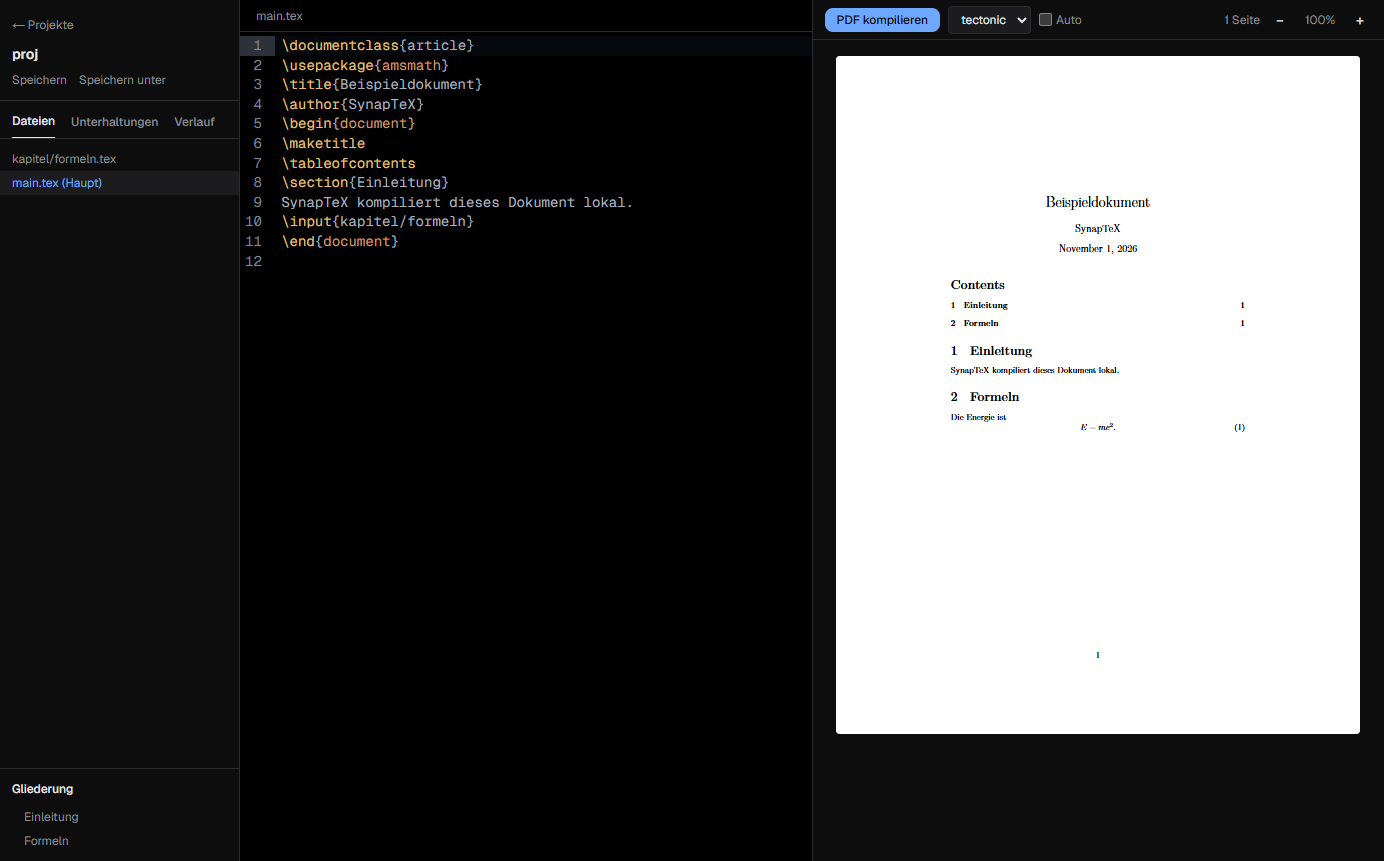
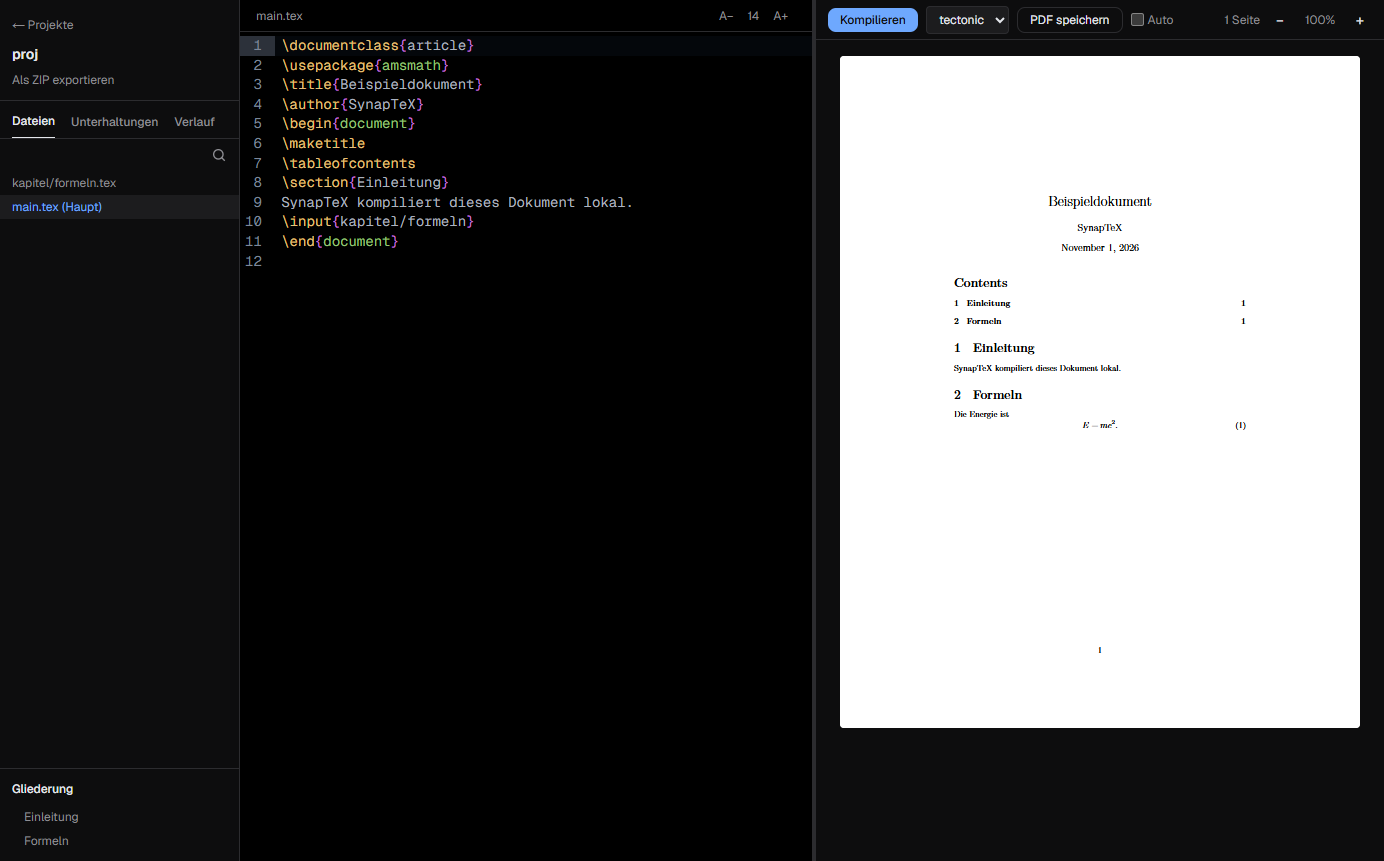
Add ZIP export, connection status and refresh the README screenshot
Also keep unreadable files from blocking checkpoints.

diff --git a/src/components/layout/ProjectSidebar.tsx b/src/components/layout/ProjectSidebar.tsx
@@ -3,6 +3,7 @@ import { useState, type ReactNode } from "react";
 import { ProjectSearch } from "@/components/layout/ProjectSearch";
 import { FileList } from "@/components/layout/FileList";
 import { HistoryPanel } from "@/components/layout/HistoryPanel";
+import { getDesktopApi } from "@/lib/desktop";
 import type { OutlineItem } from "@/types/desktop";
 
 interface ProjectSidebarProps {
@@ -52,6 +53,15 @@ export function ProjectSidebar({
           {name}
         </p>
         {/* Saved projects save themselves; only a new document needs a place first. */}
+        {!canSave && (
+          <button
+            type="button"
+            onClick={() => getDesktopApi()?.exportZip()}
+            className="mt-2 block text-xs text-muted hover:text-accent"
+          >
+            {t("exportZip")}
+          </button>
+        )}
         {canSave && (
           <button type="button" onClick={onSaveAs} className="mt-2 text-xs text-accent hover:underline">
             {t("chooseLocation")}

diff --git a/src/components/layout/ConnectionsPanel.tsx b/src/components/layout/ConnectionsPanel.tsx
@@ -34,6 +34,13 @@ export function ConnectionsPanel() {
 
   if (!state) return null;
   const api = getDesktopApi();
+  const lastAccess = state.log[0];
+  const statusText = !state.connected
+    ? t("mcpOff")
+    : lastAccess
+      ? t("mcpActive", { time: timeFormat.format(lastAccess.at) })
+      : t("mcpWaiting");
+  const statusColor = !state.connected ? "bg-muted" : lastAccess ? "bg-green-500" : "bg-amber-400";
 
   return (
     <div className="max-w-2xl p-4 text-xs">
@@ -45,6 +52,10 @@ export function ConnectionsPanel() {
       >
         {t(state.connected ? "mcpDisconnect" : "mcpConnect")}
       </button>
+      <p className="mt-3 flex items-center gap-2">
+        <span aria-hidden className={`size-2 rounded-full ${statusColor}`} />
+        {statusText}
+      </p>
       {state.connected && <p className="mt-2 text-muted">{t("mcpRestart")}</p>}
       {failed && <p role="alert" className="mt-2 text-red-400">{t("mcpFailed")}</p>}
 

diff --git a/src/lib/messages/de.ts b/src/lib/messages/de.ts
@@ -135,4 +135,8 @@ export const de: Record<string, string> = {
   previewSize: "Vorschaugröße",
   listView: "Liste",
   gridView: "Raster",
+  exportZip: "Als ZIP exportieren",
+  mcpOff: "Nicht verbunden",
+  mcpWaiting: "Eingerichtet, Claude hat noch nicht zugegriffen",
+  mcpActive: "Verbunden, letzter Zugriff: {time}",
 };

diff --git a/src/lib/messages/es.ts b/src/lib/messages/es.ts
@@ -135,4 +135,8 @@ export const es: Record<string, string> = {
   previewSize: "Tamaño de vista previa",
   listView: "Lista",
   gridView: "Cuadrícula",
+  exportZip: "Exportar como ZIP",
+  mcpOff: "Sin conexión",
+  mcpWaiting: "Configurado, Claude aún no ha accedido",
+  mcpActive: "Conectado, último acceso: {time}",
 };

diff --git a/src/lib/messages/fr.ts b/src/lib/messages/fr.ts
@@ -135,4 +135,8 @@ export const fr: Record<string, string> = {
   previewSize: "Taille de l'aperçu",
   listView: "Liste",
   gridView: "Grille",
+  exportZip: "Exporter en ZIP",
+  mcpOff: "Non connecté",
+  mcpWaiting: "Configuré, Claude n'a encore rien consulté",
+  mcpActive: "Connecté, dernier accès : {time}",
 };

diff --git a/src/lib/messages/tr.ts b/src/lib/messages/tr.ts
@@ -135,4 +135,8 @@ export const tr: Record<string, string> = {
   previewSize: "Önizleme boyutu",
   listView: "Liste",
   gridView: "Izgara",
+  exportZip: "ZIP olarak dışa aktar",
+  mcpOff: "Bağlı değil",
+  mcpWaiting: "Kuruldu, Claude henüz erişmedi",
+  mcpActive: "Bağlı, son erişim: {time}",
 };

diff --git a/src/lib/messages/en.ts b/src/lib/messages/en.ts
@@ -135,4 +135,8 @@ export const en: Record<string, string> = {
   previewSize: "Preview size",
   listView: "List",
   gridView: "Grid",
+  exportZip: "Export as ZIP",
+  mcpOff: "Not connected",
+  mcpWaiting: "Set up, Claude has not accessed anything yet",
+  mcpActive: "Connected, last access: {time}",
 };

diff --git a/src/types/desktop.d.ts b/src/types/desktop.d.ts
@@ -177,6 +177,7 @@ export interface SynaptexDesktopApi {
   mcpConnect: () => Promise<void>;
   mcpDisconnect: () => Promise<void>;
   mcpShare: (id: string, shared: boolean) => Promise<void>;
+  exportZip: () => Promise<void>;
   compile: (mainFile: string, engine: Engine) => Promise<CompileResult>;
 }
 
